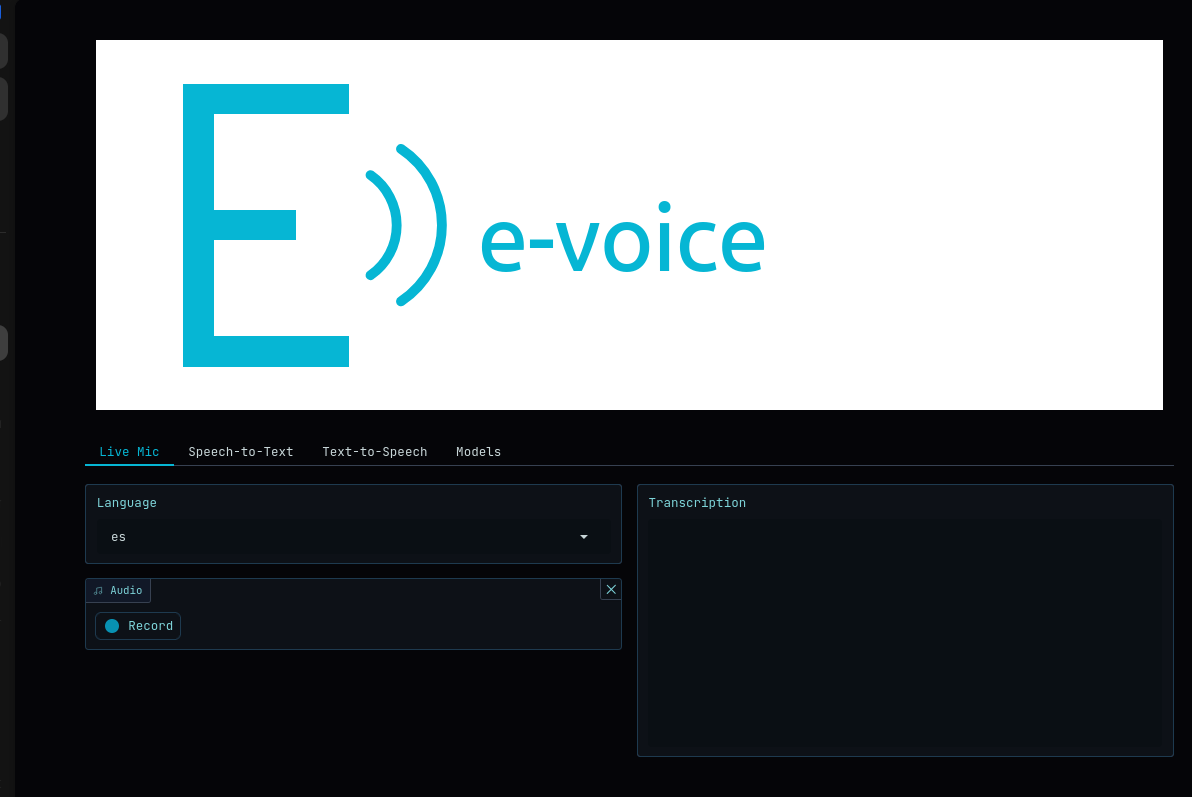
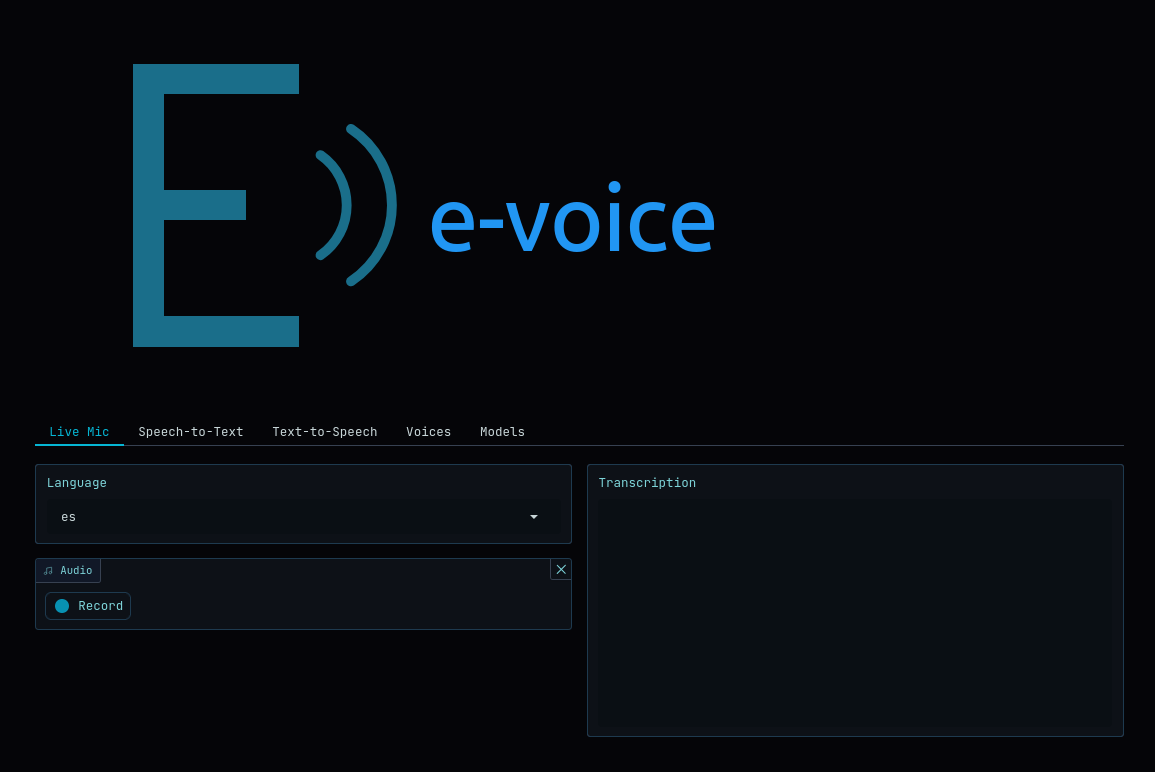
changed tot corpoprative font

diff --git a/README.md b/README.md
@@ -1,5 +1,5 @@
 <p align="center">
-  <img src="assets/e-voice-landscape.svg" alt="e-voice" width="420">
+  <img src="assets/e-voice-landscape-dark.svg" alt="e-voice" width="420">
 </p>
 
 <p align="center">
@@ -24,14 +24,17 @@ Open `http://localhost:5500` — Gradio UI, API, and docs on one port.
 ```bash
 # Local development
 make install
-make dev              # API on :5500, Gradio UI on :5600
+make dev              # API on :5500, WS on :5700, Gradio UI on :5600
 ```
 
 | Service | Local | Docker |
 |---------|-------|--------|
 | Gradio UI | `localhost:5600` | `localhost:5500` |
-| API | `localhost:5500/v1/...` | `localhost:5500/v1/...` |
+| REST API | `localhost:5500/v1/...` | `localhost:5500/v1/...` |
+| WebSocket | `ws://localhost:5700/v1/...` | `ws://localhost:5500/v1/...` |
 | Docs | `localhost:5500/docs` | `localhost:5500/docs` |
+
+In Docker, nginx routes HTTP and WebSocket on the same port (`/v1/` paths auto-detect via `Upgrade` header).
 
 ---
 
@@ -43,7 +46,7 @@ Every endpoint is available via four transport protocols. Taxonomical aliases ma
 |---------|-----------|----------|-------|-------------|
 | **STT** | HTTP | `POST /v1/audio/transcriptions` | `/v1/stt/http` | `application/json`, `text/plain` |
 | **STT** | SSE | `POST /v1/audio/transcriptions` + `stream=true` | `/v1/stt/sse` | `text/event-stream` |
-| **STT** | WebSocket | `WS /v1/audio/transcriptions` | `WS /v1/stt/ws` | text frames (JSON) |
+| **STT** | WebSocket | `WS /v1/audio/transcriptions` | `WS /v1/stt/ws` | binary PCM16-LE or text (base64) |
 | **TTS** | HTTP | `POST /v1/audio/speech` + `stream=false` | `/v1/tts/http` | `audio/*` |
 | **TTS** | SSE | `POST /v1/audio/speech` + `stream_format=sse` | `/v1/tts/sse` | `text/event-stream` |
 | **TTS** | Streaming | `POST /v1/audio/speech` + `stream=true` | `/v1/tts/stream` | `audio/*` (chunked) |
@@ -123,8 +126,11 @@ Real-time streaming STT with LocalAgreement.
 
 **Protocol**:
 1. Connect with optional query params
-2. Send base64-encoded PCM16 audio chunks (16kHz mono) as text frames
-3. Receive streaming transcription events
+2. Send audio chunks (16kHz mono):
+   - **Binary frames** (recommended): raw PCM16-LE bytes — zero overhead, industry standard
+   - **Text frames** (backward compat): base64-encoded PCM16
+3. Send `END_OF_AUDIO` as text frame to flush the session
+4. Receive streaming transcription events
 
 **Response** (`response_format=json`):
 
@@ -137,10 +143,12 @@ Real-time streaming STT with LocalAgreement.
 When `response_format=text`: returns confirmed text as plain string.
 
 **Features**:
+- **Binary PCM16-LE frames** — same format as OpenAI Realtime, Deepgram, Azure Speech, AssemblyAI
 - LocalAgreement — words are never retracted once confirmed
 - Sentence-boundary finalization + same-output detection
 - Bounded audio buffer (45s max) with context re-transcription
 - Per-connection state with automatic cleanup
+- Base64 text frames still supported for backward compatibility
 
 ### Text-to-Speech (TTS)
 
@@ -248,17 +256,23 @@ make lint          # ruff check --fix + format
 make type          # ty type check
 make test          # unit tests (parallel, coverage >90%)
 make check         # lint + type + test
-make stt           # mic -> WebSocket STT (ffmpeg + websocat)
-make tts           # text -> TTS with playback (curl + aplay)
+make stt           # mic -> WebSocket STT binary PCM16 (ffmpeg + websocat)
+make tts           # text -> TTS with playback (curl + ffplay)
+make kill          # free ports 5500/5700/5600
 ```
 
 ## Web UI (Gradio)
+
+<p align="center">
+  <img src="assets/front.png" alt="e-voice Gradio UI" width="720">
+</p>
 
 Launches automatically alongside the API:
 
 - **Live Mic** — real-time WebSocket STT from browser microphone
 - **Speech-to-Text** — upload audio, select model/language, transcribe (with SSE streaming)
-- **Text-to-Speech** — enter text, pick voice/speed, synthesize audio
+- **Text-to-Speech** — enter text, pick voice/speed, synthesize audio (voices grouped by language)
+- **Voices** — browse all available voices organized by language (9 languages, 50+ voices)
 - **Models** — view and download STT/TTS models
 
 | Environment | URL |
@@ -279,10 +293,10 @@ system:
 
 stt:
   model: "mobiuslabsgmbh/faster-whisper-large-v3-turbo"
-  device: cuda
+  device: gpu           # gpu, cpu, or auto
 
 tts:
-  device: cuda
+  device: gpu
   default_voice: af_heart
 
 front:
